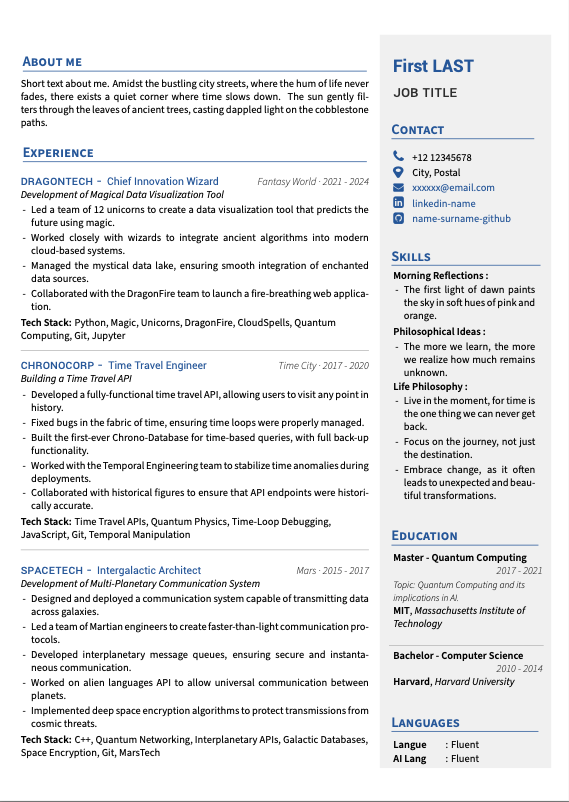
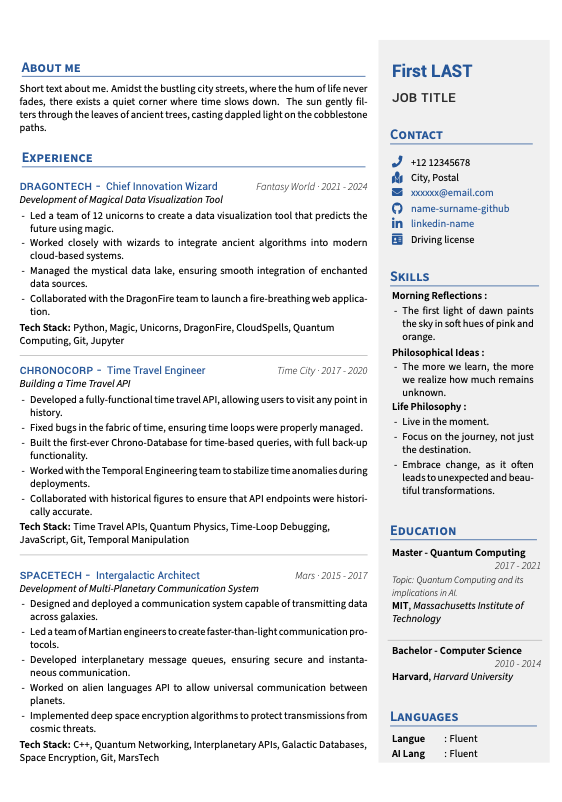
remove error input

diff --git a/README.md b/README.md
@@ -1,12 +1,14 @@
 ## CV 2-column templates
 
-CV templates modified from Awesome CV templates, updated with my preferred layout and section macros
+CV template modified from Awesome CV templates, updated with my preferred layout.
+
+**Usage**: compile with **XeLaTeX**.
 
  [![resume](resume.png)](TwoColumnResume.pdf)
 
 
 
-## Quick Start
+## Awesome CV at OverLeaf
 
 * [**Edit Awesome Résumé on OverLeaf.com**](https://www.overleaf.com/latex/templates/awesome-cv/tvmzpvdjfqxp)
 
